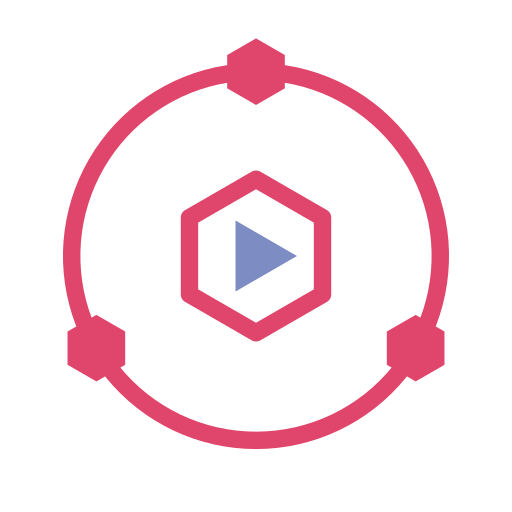
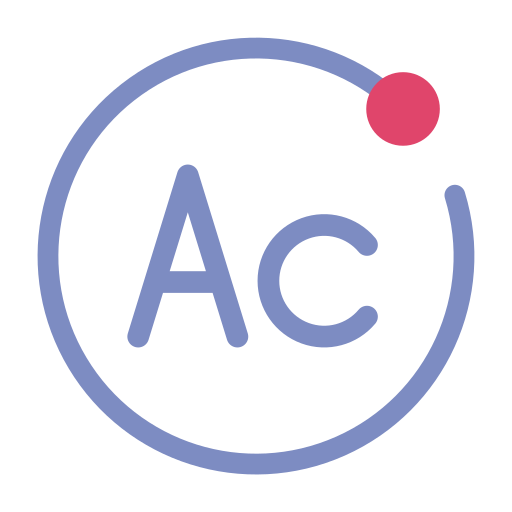
feat(site): Gliders brand marks and the Gliders idea page
The placeholder marks give way to the Gliders marks: a rising coil for
Gliders (the site logo, light and dark, and the favicon), and for the two
gems a ring the dot is leaving, with FS or Ac inside. A new Explanation page
says why the gems live under the Gliders name, and the landing page links to
it.

Changed region(s): [[0.0625, 0.0625, 0.9375, 0.9375], [0.7188, 0.25, 0.75, 0.2812]]

diff --git a/site/src/content/docs/explanation/gliders.md b/site/src/content/docs/explanation/gliders.md
@@ -1,0 +1,19 @@
+---
+title: "The Gliders idea"
+description: "Why the gems live under the Gliders name: work with the forces already in a system instead of fighting them."
+sidebar:
+  order: 9
+---
+
+A glider has no engine. It stays up by reading the air - a thermal, the lift off a ridge - and using what is already there instead of fighting it. That is the idea behind these gems, and why they live under the Gliders name.
+
+It shows up in small decisions. A struct coerces data into shape instead of rejecting it on the first mismatch, and when the data is truly bad, it stays alive to explain it ([validity on assignment](/explanation/validity-on-assignment/)). An action that needs to stop throws, instead of raising an exception that something else has to rescue ([success, failure, skip](/explanation/three-outcomes/)). The adapters describe a struct in the formats the rest of your system already speaks, like JSON Schema, Avro and Protobuf, so you declare your data once instead of again for each one ([how adapters work](/adapters/how-adapters-work/)).
+
+It is not about doing less. A good glider pilot works hard - reading, deciding, staying accurate - so the flight doesn't have to fight the air. Like a martial artist redirecting an attacker's energy, we would rather work with the forces in a system than against them.
+
+FieldStruct and Actionable are the first gliders. More are on the way.
+
+## See also
+
+- [Why these gems](/explanation/why-these-gems/)
+- [History](/explanation/history/)

diff --git a/site/README.md b/site/README.md
@@ -40,7 +40,7 @@ A page's runnable blocks go through one fresh Ruby process in order, sharing cla
 - `src/content/docs/` - the pages. A section with no content yet holds a "Coming soon" stub.
 - `src/styles/theme.css` - palette, fonts and the small components.
 - `ec.config.mjs` - the code themes and the plugin that marks `# =>` results.
-- `src/assets/brand/`, `public/brand/` - the placeholder marks, drawn by `bin/brand-marks`.
+- `src/assets/brand/`, `public/brand/` - the Gliders marks (a rising coil for Gliders, top-view spirals with FS and Ac for the gems), drawn by `bin/brand-marks`. Run it again after changing a constant.
 
 ## Agent outputs
 

diff --git a/site/src/content/docs/explanation/index.md b/site/src/content/docs/explanation/index.md
@@ -23,3 +23,5 @@ Each page here answers "why is it like this?". Teaching a task is the job of the
 - [ActiveModel-shaped, framework-free](/explanation/framework-independence/): copy the shape, keep Rails optional
 - [How the two gems fit together](/explanation/how-the-gems-fit/): input, output and result are all structs
 - [Why these gems](/explanation/why-these-gems/): where they came from
+- [The Gliders idea](/explanation/gliders/): work with the forces already in a system, not against them
+- [History](/explanation/history/): the earlier versions, and why this is a complete rewrite

diff --git a/site/src/content/docs/explanation/history.md b/site/src/content/docs/explanation/history.md
@@ -2,7 +2,7 @@
 title: "History"
 description: "Where the gems came from, who supported the earlier versions, and why this is a complete rewrite."
 sidebar:
-  order: 9
+  order: 10
 ---
 
 FieldStruct and Actionable started as ideas I carried for years. Their first implementations grew up with the support of Acima and later Paymentbox, and both companies released them as open source under the MIT license. I'm grateful to both, and to the colleagues there who used the early versions and pushed back on them, for the room to try these ideas in real systems.

diff --git a/site/src/content/docs/explanation/why-these-gems.md b/site/src/content/docs/explanation/why-these-gems.md
@@ -25,6 +25,7 @@ I'm not sure yet how far the strictness should go. A date in the wrong shape is 
 
 ## See also
 
+- [The Gliders idea](/explanation/gliders/)
 - [History](/explanation/history/)
 - [How the two gems fit together](/explanation/how-the-gems-fit/)
 - [Coercion versus validation](/explanation/coercion-and-validation/)
